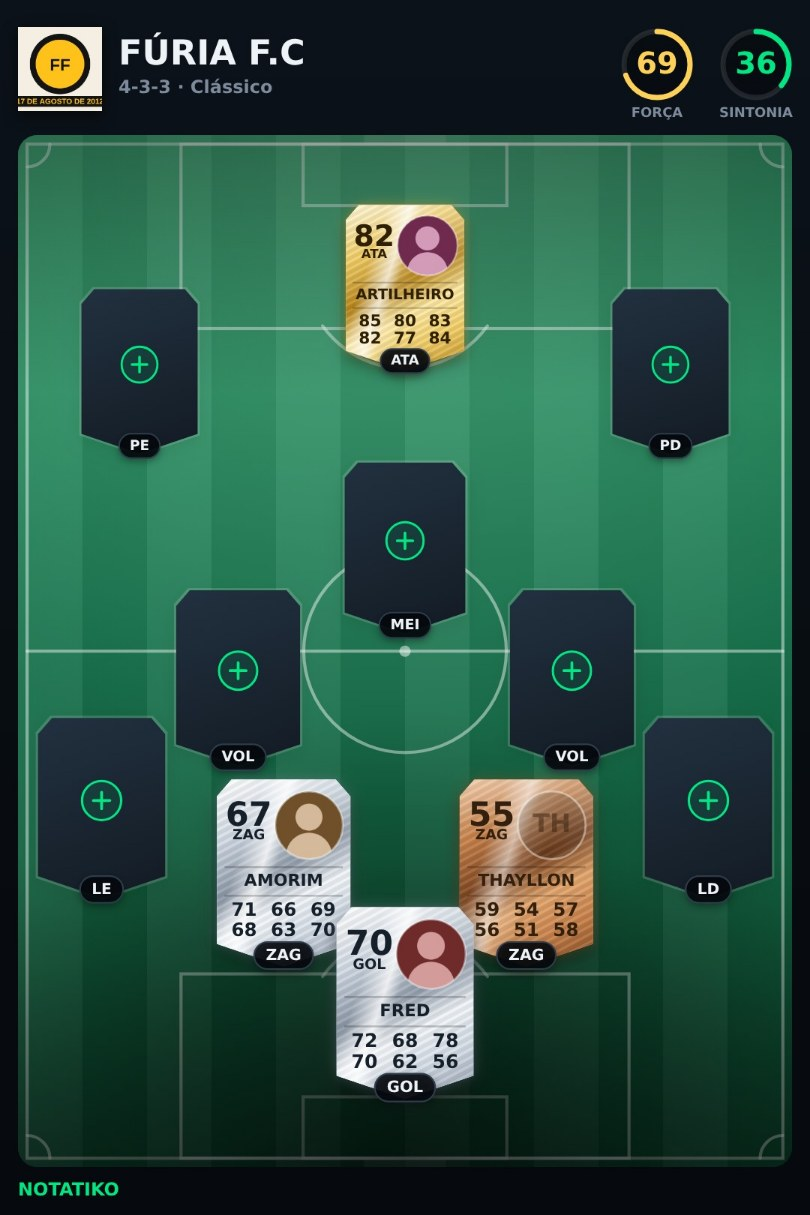
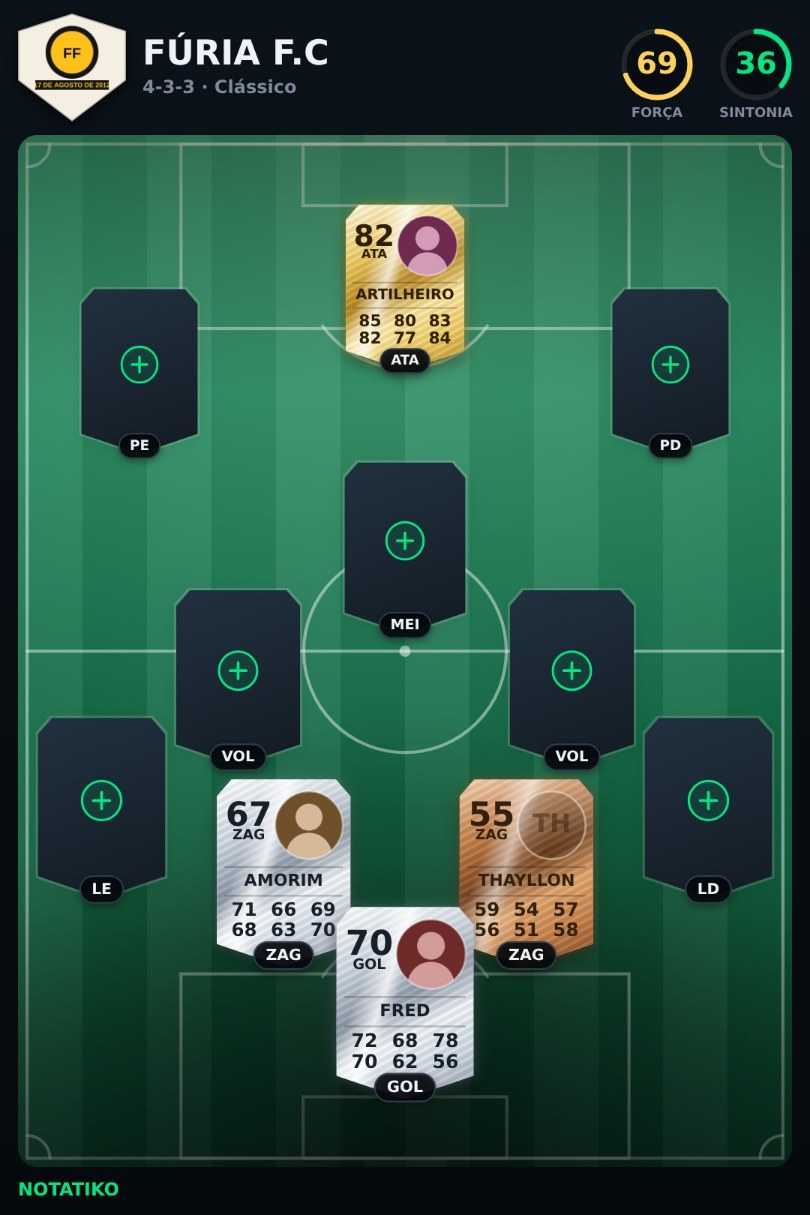
A marca do clube volta a ser brasão, sem voltar a ser cortada
Um retângulo com a logo dentro não parece escudo de time. Mas recortar a
marca NO formato do brasão foi o que comeu as pontas do escudo redondo e
a faixa do ano de fundação — o problema que a caixa quadrada resolveu.

Então o brasão é moldura, não tesoura. A placa tem a silhueta do emblema
do placar do app e a marca vai inteira dentro dela, reduzida até caber no
maior quadrado que a silhueta comporta: 0,68 do lado, topo em 6%. Crescer
além disso põe a base da marca onde o brasão afunila para o bico, e é ali
que mora a faixa com o ano.

Falta o quadrado do arquivo sumir, e some sozinho: a placa toma a cor que
mais se repete na moldura de um pixel da marca. Escudo enviado em JPEG
não tem transparência e vem com fundo chapado — tomada essa cor, a borda
do arquivo deixa de existir e o que se vê é o brasão com a marca dentro.
Olhar só os quatro cantos não servia: quem tem faixa embaixo tem os dois
cantos de baixo na cor da faixa, e o fundo seria descartado justamente
nos escudos em que ele é mais evidente. Fundo transparente, foto ou
degradê não têm cor dominante, e aí a placa fica no metal escuro.

O teste dos pixels agora confere as três coisas: os cantos da marca
continuam na cor dela (nada cortado), a placa está na mesma cor (a borda
sumiu) e o canto de cima da caixa é fundo da imagem — que é o que separa
um brasão de um quadrado.

Claude-Session: https://claude.ai/code/session_01BDiYZxN9ViDVE1JWyEVF93

Changed region(s): [[0.0, 0.0, 0.4012, 0.1218]]

diff --git a/js/compartilhar.js b/js/compartilhar.js
@@ -124,6 +124,57 @@ function caminhoEscudo(ctx, x, y, t) {
   ctx.closePath();
 }
 
+/* A cor de fundo da marca, quando ela tem uma só.
+
+   Escudo enviado como JPEG não tem transparência: vem com um fundo
+   chapado, quase sempre branco ou creme. Se a placa do brasão tomar essa
+   cor, a borda do arquivo some e o que se vê é o brasão com a marca
+   dentro — em vez de um quadrado colado num escudo.
+
+   A conta olha a moldura de um pixel em volta da marca e procura a cor
+   que mais se repete ali. Olhar só os quatro cantos não serve: escudo com
+   faixa do ano de fundação embaixo tem os dois cantos de baixo na cor da
+   faixa, e o fundo seria descartado justamente nos escudos em que ele é
+   mais evidente. Fundo transparente, foto ou degradê não têm cor
+   dominante — aí a placa fica no metal escuro.                          */
+function fundoDaMarca(img) {
+  try {
+    const n = 64;
+    const cv = document.createElement('canvas');
+    cv.width = cv.height = n;
+    const c = cv.getContext('2d', { willReadFrequently: true });
+    c.drawImage(img, 0, 0, n, n);
+    const d = c.getImageData(0, 0, n, n).data;
+
+    const moldura = [];
+    for (let i = 0; i < n; i++) {
+      for (const [x, y] of [[i, 0], [i, n - 1], [0, i], [n - 1, i]]) {
+        const p = (y * n + x) * 4;
+        moldura.push([d[p], d[p + 1], d[p + 2], d[p + 3]]);
+      }
+    }
+
+    // agrupa por cor aproximada e fica com o grupo mais numeroso
+    const grupos = new Map();
+    for (const [r, g, b, a] of moldura) {
+      if (a < 240) continue;
+      const chave = `${r >> 4}-${g >> 4}-${b >> 4}`;
+      const grupo = grupos.get(chave) || { n: 0, r: 0, g: 0, b: 0 };
+      grupo.n++; grupo.r += r; grupo.g += g; grupo.b += b;
+      grupos.set(chave, grupo);
+    }
+    const maior = [...grupos.values()].sort((a, b) => b.n - a.n)[0];
+    if (!maior || maior.n < moldura.length * .55) return null;
+
+    const r = Math.round(maior.r / maior.n);
+    const g = Math.round(maior.g / maior.n);
+    const b = Math.round(maior.b / maior.n);
+    return { css: `rgb(${r},${g},${b})`, claro: (r * .299 + g * .587 + b * .114) > 140 };
+  } catch {
+    return null;   // canvas sem permissão de leitura: segue no metal
+  }
+}
+
 // desenha a imagem inteira dentro da área, sem cortar (object-fit: contain)
 function conter(ctx, img, x, y, w, h) {
   const escala = Math.min(w / img.width, h / img.height);
@@ -629,36 +680,62 @@ export async function imagemDaEscalacao({ time, tatica, forca, sintonia, slots }
   ctx.fillStyle = fundo;
   ctx.fillRect(0, 0, L, A);
 
-  /* ---- topo: escudo, nome e tática ----
+  /* ---- topo: o brasão do clube ----
 
-     O escudo vai inteiro, encaixado numa caixa quadrada sem recorte
-     nenhum: o placar do app corta em forma de brasão porque ali ele é um
-     emblema de 34px, mas aqui é a marca do clube — e brasão redondo,
-     quadrado ou com faixa de texto embaixo tem que aparecer como foi
-     desenhado, não com as pontas comidas.                              */
-  const t = 112;
-  const topoEscudo = 36;
-  if (escudo) {
-    ctx.save();
-    ctx.shadowColor = 'rgba(0,0,0,.55)';
-    ctx.shadowBlur = 18;
-    ctx.shadowOffsetY = 5;
-    conter(ctx, escudo, MARGEM, topoEscudo, t, t);
-    ctx.restore();
+     O escudo é uma placa em forma de brasão — a mesma silhueta do emblema
+     do placar do app — com a marca do clube inteira dentro dela.
+
+     Recortar a marca NO formato do brasão foi a primeira tentativa e
+     estava errado: escudo redondo perde os lados, e faixa com o ano de
+     fundação embaixo é a primeira coisa a sumir. Aqui o brasão é moldura,
+     não tesoura: a marca é reduzida até caber no maior quadrado que cabe
+     dentro da silhueta, e nada é cortado.                               */
+  const t = 144;
+  const topoEscudo = 18;
+  const marca = escudo ? fundoDaMarca(escudo) : null;
+
+  ctx.save();
+  ctx.shadowColor = 'rgba(0,0,0,.55)';
+  ctx.shadowBlur = 20;
+  ctx.shadowOffsetY = 6;
+  caminhoEscudo(ctx, MARGEM, topoEscudo, t);
+  if (marca) {
+    ctx.fillStyle = marca.css;
   } else {
-    // sem escudo, a silhueta de brasão segura o lugar
-    ctx.save();
-    caminhoEscudo(ctx, MARGEM + t * .1, topoEscudo, t * .8);
     const metal = ctx.createLinearGradient(MARGEM, topoEscudo, MARGEM + t, topoEscudo + t);
     metal.addColorStop(0, '#2a3542');
     metal.addColorStop(1, '#141a22');
     ctx.fillStyle = metal;
-    ctx.fill();
-    ctx.strokeStyle = 'rgba(255,255,255,.14)';
-    ctx.lineWidth = 3;
-    ctx.stroke();
-    ctx.restore();
   }
+  ctx.fill();
+  ctx.restore();
+
+  ctx.save();
+  caminhoEscudo(ctx, MARGEM, topoEscudo, t);
+  ctx.clip();
+  if (escudo) {
+    /* O maior quadrado que cabe no brasão: 0,68 do lado, com o topo em
+       6%. Crescer além disso põe a base da marca na parte em que a
+       silhueta afunila para o bico — e é ali que mora a faixa com o ano
+       de fundação, a primeira coisa a ser comida.                      */
+    const dentro = t * .68;
+    conter(ctx, escudo, MARGEM + (t - dentro) / 2, topoEscudo + t * .06, dentro, dentro);
+  } else {
+    // sem marca, a silhueta vazia segura o lugar
+    ctx.strokeStyle = 'rgba(255,255,255,.28)';
+    ctx.lineWidth = 4;
+    caminhoEscudo(ctx, MARGEM + t * .28, topoEscudo + t * .2, t * .44);
+    ctx.stroke();
+  }
+  ctx.restore();
+
+  // o filete que fecha o brasão: escuro sobre placa clara, claro sobre escura
+  ctx.save();
+  caminhoEscudo(ctx, MARGEM, topoEscudo, t);
+  ctx.strokeStyle = marca?.claro ? 'rgba(0,0,0,.3)' : 'rgba(255,255,255,.18)';
+  ctx.lineWidth = 3;
+  ctx.stroke();
+  ctx.restore();
 
   const xTexto = MARGEM + t + 22;
   ctx.textAlign = 'left';

diff --git a/ferramentas/e2e.js b/ferramentas/e2e.js
@@ -610,12 +610,12 @@ const TESTES = [
     };
   }],
 
-  ['o escudo aparece inteiro no topo, sem recorte e sem manchar o campo', async () => {
+  ['o brasão leva a marca inteira, sem cortar as pontas', async () => {
     const mod = await import('../js/compartilhar.js');
     const { slotsDaTatica } = await import('../js/taticas.js');
 
-    // um escudo quadrado de cor única: se algum recorte comer as pontas,
-    // os cantos da caixa deixam de ser dessa cor
+    // uma marca quadrada de cor única: se algum recorte comer as pontas,
+    // os cantos dela deixam de ser dessa cor
     const cv = document.createElement('canvas');
     cv.width = cv.height = 120;
     const pincel = cv.getContext('2d');
@@ -629,21 +629,29 @@ const TESTES = [
       slots: slotsDaTatica('4-3-3', 'Clássico').map((s) => ({ x: s.x, y: s.y, pos: s.pos, jogador: null })),
     });
     const cor = await amostrar(arquivo);
-    const ehEscudo = ({ r, g, b }) => r > 180 && g < 90 && b > 140;
+    const ehMarca = ({ r, g, b }) => r > 180 && g < 90 && b > 140;
+    const ehFundo = ({ r, g, b }) => r < 40 && g < 45 && b < 55;
+    const ehGrama = ({ r, g, b }) => g > r && g > b;
 
-    // a caixa do escudo mora em (24, 36) e mede 112
+    /* O brasão é uma placa de 144 em (24, 18), com a marca encaixada
+       dentro dela — de (47, 27) a (145, 125).                          */
     const medido = {
-      cantoDeCima: cor(30, 42),
-      cantoDeBaixo: cor(130, 142),
-      // onde a marca já morou, no gramado, agora é só grama
+      marcaNoCantoDeCima: cor(52, 32),
+      marcaNoCantoDeBaixo: cor(140, 118),
+      // a placa toma a cor do fundo da marca: a borda do arquivo some
+      placa: cor(30, 100),
+      // fora da silhueta do brasão é fundo da imagem — é isto que separa
+      // um brasão de um quadrado
+      foraDoBrasao: cor(28, 26),
+      // e o gramado não tem marca nenhuma
       cantoDoCampo: cor(70, 1500),
       meioDoCampo: cor(540, 860),
     };
-    const grama = ({ r, g, b }) => g > r && g > b;
     return {
       ...medido,
-      ok: ehEscudo(medido.cantoDeCima) && ehEscudo(medido.cantoDeBaixo)
-          && grama(medido.cantoDoCampo) && grama(medido.meioDoCampo),
+      ok: ehMarca(medido.marcaNoCantoDeCima) && ehMarca(medido.marcaNoCantoDeBaixo)
+          && ehMarca(medido.placa) && ehFundo(medido.foraDoBrasao)
+          && ehGrama(medido.cantoDoCampo) && ehGrama(medido.meioDoCampo),
     };
   }],
 

diff --git a/README.md b/README.md
@@ -85,10 +85,13 @@ se compartilha do mesmo jeito:
   como no app, e depois no canto do campo. Nos dois lugares disputava espaço
   com as cartas — e o escudo já está no topo, do lado do nome. Uma vez só
   basta.
-- **O recorte de brasão no escudo do topo.** O placar do app corta em forma
-  de escudo porque ali ele é um emblema de 34px. Numa imagem que representa o
-  clube, escudo redondo ou com faixa de texto embaixo ficava com as pontas
-  comidas: agora vai inteiro, dentro de uma caixa quadrada.
+- **O recorte da marca no formato do brasão.** O placar do app corta em forma
+  de escudo porque ali ele é um emblema de 34px; numa imagem que representa o
+  clube, escudo redondo perdia os lados e faixa com o ano de fundação sumia.
+  Agora o brasão é moldura, não tesoura: a silhueta é a mesma do placar, e a
+  marca vai inteira dentro dela, reduzida até caber no maior quadrado que a
+  silhueta comporta. A placa ainda toma a cor de fundo da marca quando ela
+  tem uma só — o quadrado do arquivo desaparece e sobra o brasão.
 - **A contagem de "x de 11 em campo".** Quem olha a imagem conta os onze
   sozinho. O rodapé ficou só com a assinatura, e o lugar dela virou campo.
 
